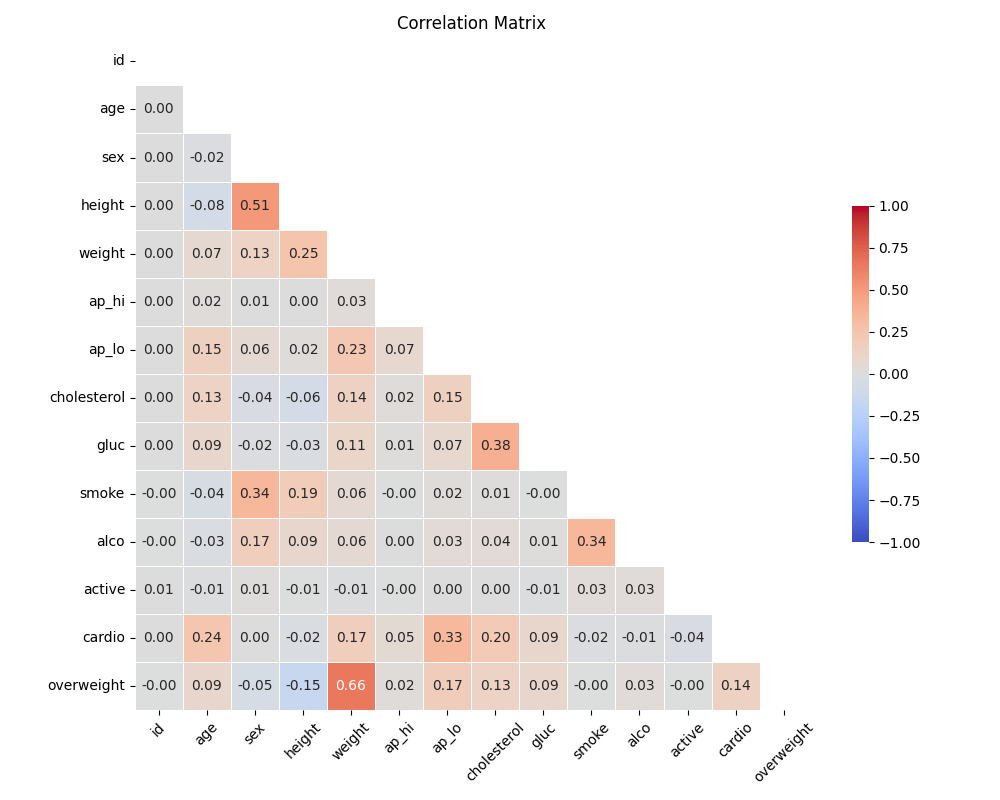
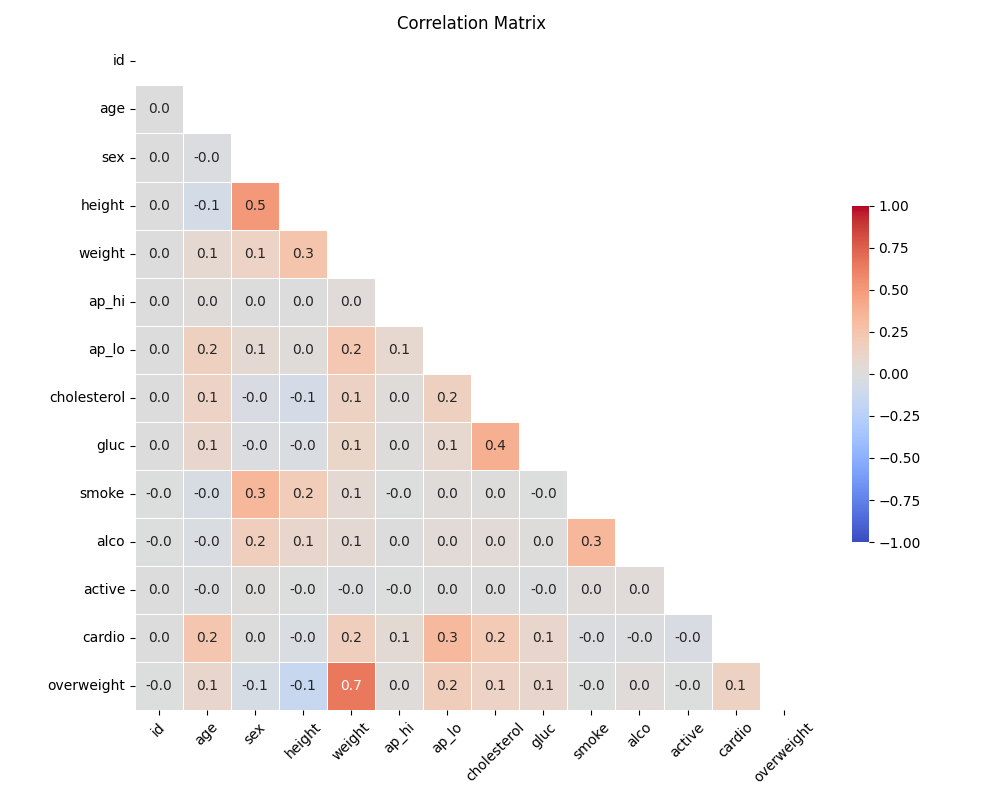
done

diff --git a/medical_data_visualizer.py b/medical_data_visualizer.py
@@ -55,7 +55,7 @@ def draw_heat_map():
     fig, ax = plt.subplots(figsize=(10, 8))
 
     # Draw the heatmap with 'sns.heatmap()'
-    sns.heatmap(corr, mask=mask, annot=True, fmt=".2f", cmap='coolwarm', vmin=-1, vmax=1, center=0, square=True, linewidths=.5, cbar_kws={"shrink": .5})
+    sns.heatmap(corr, mask=mask, annot=True, fmt=".1f", cmap='coolwarm', vmin=-1, vmax=1, center=0, square=True, linewidths=.5, cbar_kws={"shrink": .5})
     ax.set_title('Correlation Matrix')
     plt.yticks(rotation=0)
     plt.xticks(rotation=45)
